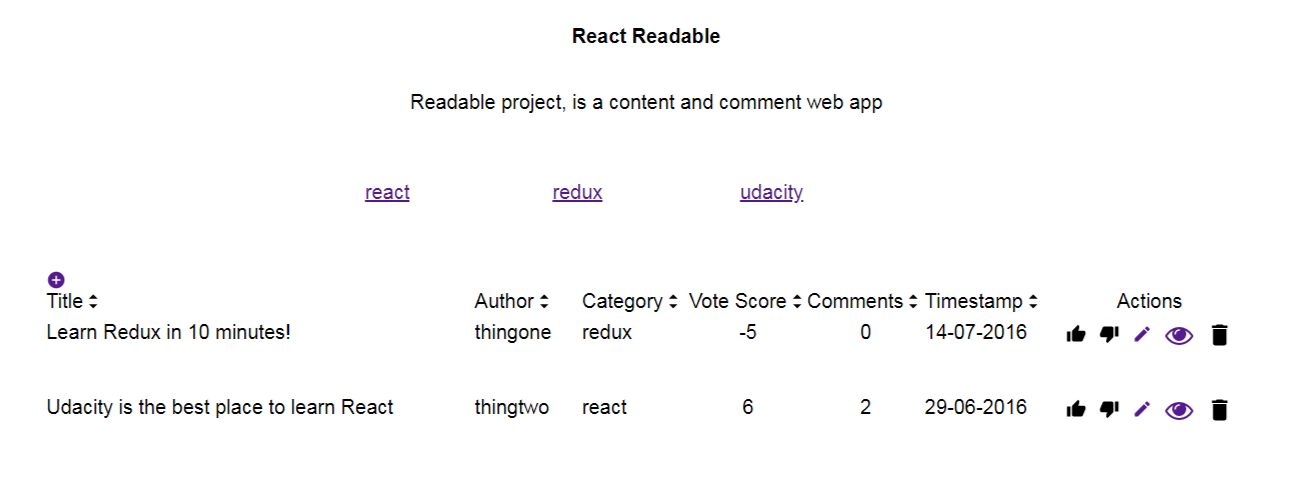
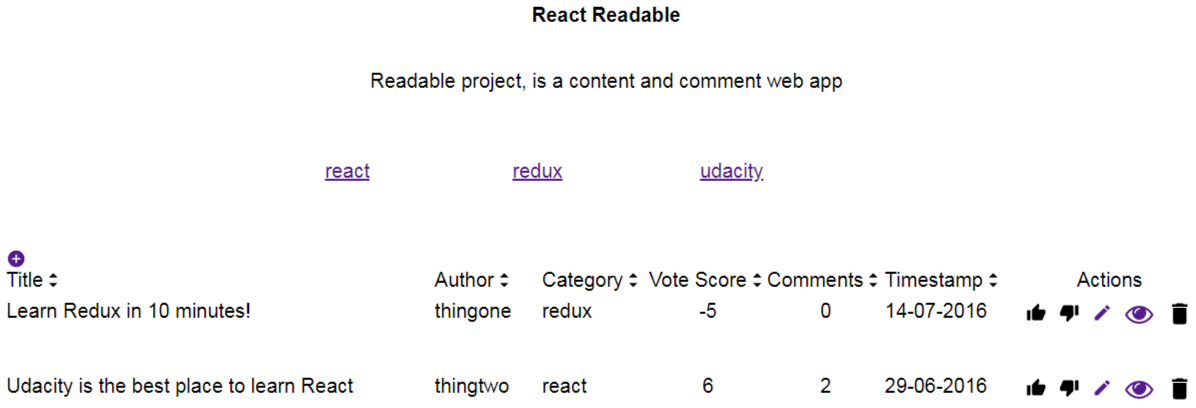
feat: Add screenshot for different views for README.md file.

diff --git a/README.md b/README.md
@@ -10,3 +10,9 @@
 1. Navigate up to the root folder
 2. Run `npm start`
 
+----
+![](https://raw.githubusercontent.com/mistertandon/udacity-react-nanodegree-readable/master/public/images/home_page.png)
+
+> Application home page
+
+----
